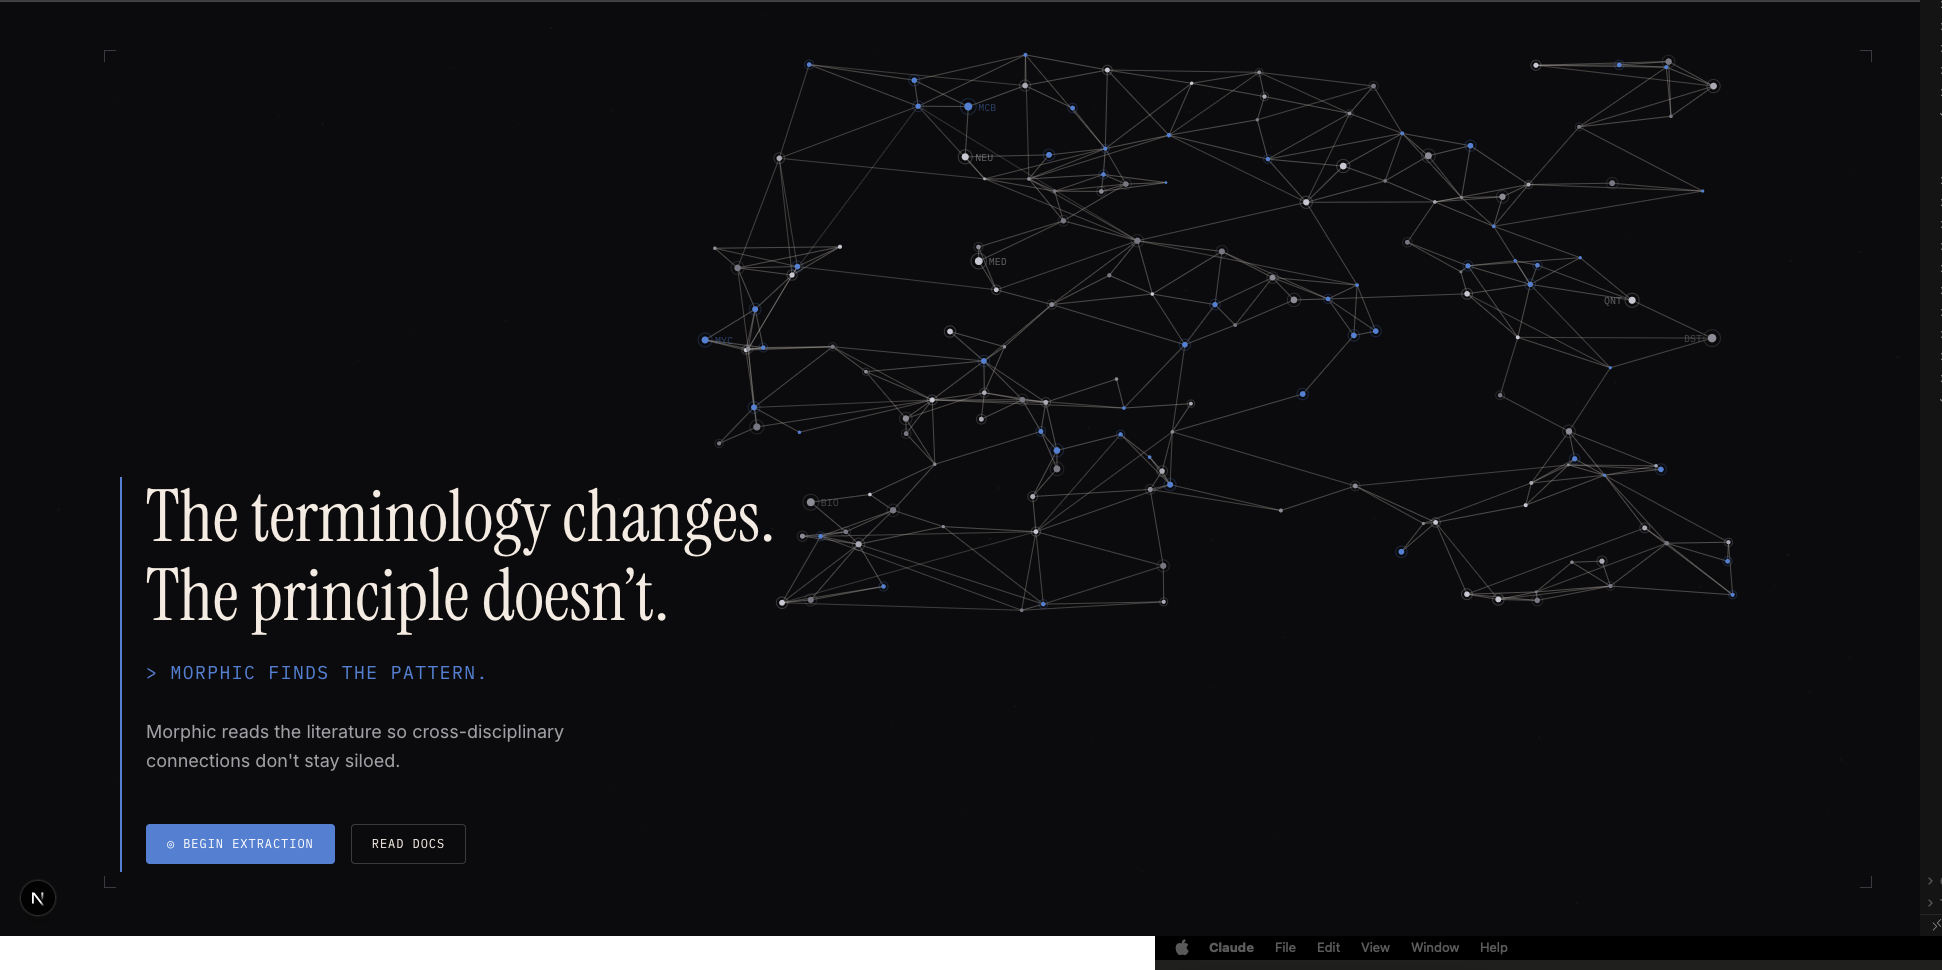
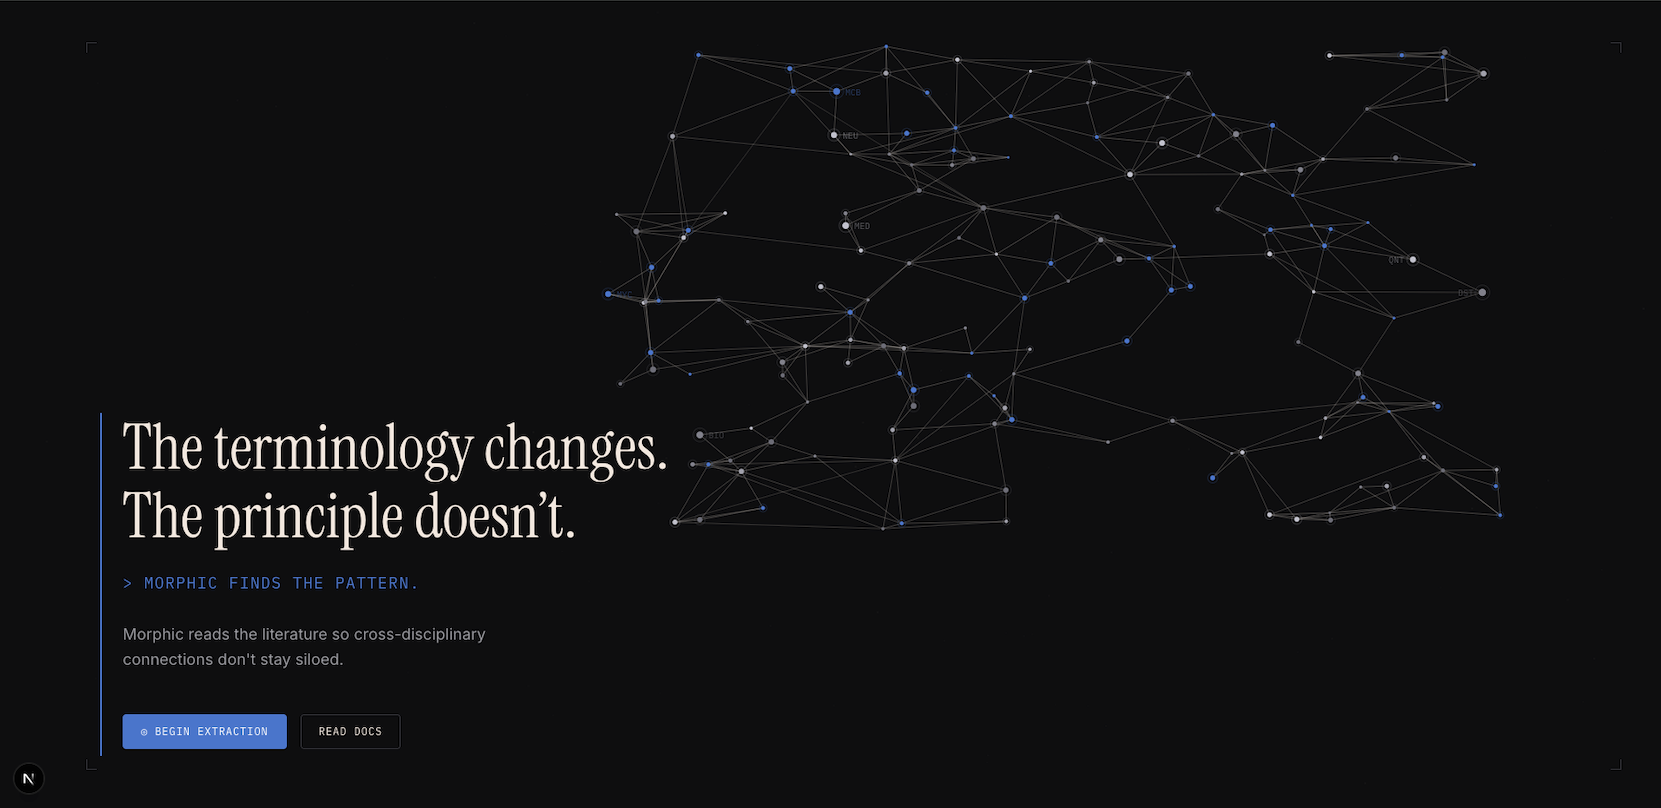
Switch body font to Hanken Grotesk; add image lightbox
Typography:
- Body/nav/lists/tables now Hanken Grotesk (sans) for readability; headings
  stay Young Serif. Hero tagline kept as Cormorant Garamond italic (index only).
- Rename --font-serif-body -> --font-body; update DESIGN.md.

Feature:
- Click-to-zoom lightbox in site.js for content images (charts/screenshots);
  click backdrop or Esc to close. Linked home thumbnails keep navigating.

Also: cache-bust querystrings on CSS/JS links; refreshed morphic thumbnail.

diff --git a/dist/output.css b/dist/output.css
@@ -1,5 +1,5 @@
 
-@import url('https://fonts.googleapis.com/css2?family=Cormorant+Garamond:ital,wght@0,300;0,400;1,300&family=Young+Serif&display=swap');/* src/theme.css *//* CSS Variables for colors and fonts */:root {
+@import url('https://fonts.googleapis.com/css2?family=Hanken+Grotesk:ital,wght@0,400;0,500;0,700;1,400&family=Young+Serif&display=swap');/* src/theme.css *//* CSS Variables for colors and fonts */:root {
   --color-background: var(--color-isabelline);
   --color-text: var(--color-van-dyke);
   --color-link-hover-bg: var(--color-caramel);
@@ -7,7 +7,7 @@
   --color-nav-link: var(--color-van-dyke);
 
   --font-serif-display: 'Young Serif', serif;
-  --font-serif-body: 'Cormorant Garamond', serif;
+  --font-body: 'Hanken Grotesk', system-ui, sans-serif;
 
   --color-van-dyke: #3E1F14;
   --color-caramel: #BE7C4D;
@@ -40,7 +40,7 @@
   font-family: var(--font-serif-display);
   color: var(--color-text);
 }ol, ul, p {
-  font-family: var(--font-serif-body);
+  font-family: var(--font-body);
 }/* NOTE: heading font-SIZES live in src/input.css inside `@layer base`, NOT here.
    Tailwind's Preflight (@tailwind base) resets h1–h3 to `font-size: inherit`, and
    theme.css is @imported BEFORE @tailwind base — so any font-size set here is
@@ -74,7 +74,7 @@
 }/* Ensure nav links use the CSS variable colors.
    font-family is set here because the global `a` was dropped from the
    serif-body selector; nav links aren't inside a serif parent to inherit it. */nav a {
-  font-family: var(--font-serif-body);
+  font-family: var(--font-body);
   color: var(--color-nav-link);
   text-decoration: none;
 }nav a:hover,
@@ -1320,7 +1320,7 @@ video {
   -o-object-position: center;
      object-position: center; /* per-image focal point set inline where needed */
   display: block;
-}/* ---- GitHub contribution heatmap ---- */.heatmap-wrap { overflow-x: auto; padding-bottom: 6px; }.heatmap { display: inline-block; min-width: -moz-max-content; min-width: max-content; font-family: var(--font-serif-body, serif); }.heatmap-months {
+}/* ---- GitHub contribution heatmap ---- */.heatmap-wrap { overflow-x: auto; padding-bottom: 6px; }.heatmap { display: inline-block; min-width: -moz-max-content; min-width: max-content; font-family: var(--font-body, sans-serif); }.heatmap-months {
   position: relative;
   height: 1.1em;
   margin-left: 30px;
@@ -1367,6 +1367,9 @@ video {
   position: relative;
   display: inline-block;
   max-width: 100%;
+  /* Elegant italic serif for the tagline. Body font is now Hanken, so this is set
+     explicitly to keep the original Cormorant look (loaded on index only). */
+  font-family: 'Cormorant Garamond', serif;
 }.hero-handwrite .hw-text {
   display: inline-block;
   -webkit-clip-path: inset(0 100% 0 0);
@@ -1397,12 +1400,37 @@ video {
   border-radius: 0.5rem;
   overflow: hidden;
   background: color-mix(in srgb, var(--color-caramel) 7%, transparent);
-}.figure-frame iframe { width: 100%; height: 460px; border: 0; display: block; }.figure-frame img { width: 100%; display: block; }.chart-placeholder { display: flex; align-items: center; justify-content: center; min-height: 320px; text-align: center; padding: 1rem; }.figcaption { font-size: 0.85rem; opacity: 0.6; margin-top: 0.6rem; }/* ---- Data appendix: sources table + metric terms ---- */.data-table { width: 100%; border-collapse: collapse; font-family: var(--font-serif-body, serif); }.data-table th, .data-table td {
+}.figure-frame iframe { width: 100%; height: 460px; border: 0; display: block; }.figure-frame img { width: 100%; display: block; }.chart-placeholder { display: flex; align-items: center; justify-content: center; min-height: 320px; text-align: center; padding: 1rem; }.figcaption { font-size: 0.85rem; opacity: 0.6; margin-top: 0.6rem; }/* ---- Data appendix: sources table + metric terms ---- */.data-table { width: 100%; border-collapse: collapse; font-family: var(--font-body, sans-serif); }.data-table th, .data-table td {
   text-align: left;
   padding: 0.55rem 0.75rem;
   border-bottom: 1px solid color-mix(in srgb, currentColor 14%, transparent);
   vertical-align: top;
-}.data-table th { font-size: 0.72rem; text-transform: uppercase; letter-spacing: 0.05em; opacity: 0.55; }.data-table td:first-child { font-weight: 600; }.term { font-family: ui-monospace, SFMono-Regular, Menlo, monospace; font-size: 0.92em; color: var(--color-jasper); }.dark .term { color: var(--color-caramel); }.hover\:border-current:hover{
+}.data-table th { font-size: 0.72rem; text-transform: uppercase; letter-spacing: 0.05em; opacity: 0.55; }.data-table td:first-child { font-weight: 600; }.term { font-family: ui-monospace, SFMono-Regular, Menlo, monospace; font-size: 0.92em; color: var(--color-jasper); }.dark .term { color: var(--color-caramel); }/* ---- Click-to-zoom image lightbox (wired up in assets/js/site.js) ---- *//* Only content images (not linked thumbnails) get the zoom cursor. */.zoomable { cursor: zoom-in; }.lightbox {
+  position: fixed;
+  inset: 0;
+  z-index: 70; /* above sidebar (z-50/60), toggle (z-60), mobile bar (z-40) */
+  display: flex;
+  align-items: center;
+  justify-content: center;
+  padding: 2rem;
+  background: color-mix(in srgb, var(--color-van-dyke) 90%, transparent);
+  opacity: 0;
+  pointer-events: none;
+  transition: opacity 0.2s ease;
+  cursor: zoom-out; /* clicking the backdrop closes */
+}.lightbox.open { opacity: 1; pointer-events: auto; }.lightbox img {
+  max-width: 95vw;
+  max-height: 95vh;
+  -o-object-fit: contain;
+     object-fit: contain;
+  border-radius: 0.5rem;
+  box-shadow: 0 12px 48px rgba(0, 0, 0, 0.55);
+  transform: scale(0.97);
+  transition: transform 0.2s ease;
+  cursor: default; /* clicking the image itself does not close */
+}.lightbox.open img { transform: scale(1); }@media (prefers-reduced-motion: reduce) {
+  .lightbox, .lightbox img { transition: none; }
+}.hover\:border-current:hover{
   border-color: currentColor;
 }.hover\:border-gray-300:hover{
   --tw-border-opacity: 1;

diff --git a/src/input.css b/src/input.css
@@ -1,5 +1,5 @@
 @import './theme.css';
-@import url('https://fonts.googleapis.com/css2?family=Cormorant+Garamond:ital,wght@0,300;0,400;1,300&family=Young+Serif&display=swap');
+@import url('https://fonts.googleapis.com/css2?family=Hanken+Grotesk:ital,wght@0,400;0,500;0,700;1,400&family=Young+Serif&display=swap');
 @tailwind base;
 @tailwind components;
 @tailwind utilities;
@@ -81,7 +81,7 @@ html { scroll-behavior: smooth; }
 
 /* ---- GitHub contribution heatmap ---- */
 .heatmap-wrap { overflow-x: auto; padding-bottom: 6px; }
-.heatmap { display: inline-block; min-width: max-content; font-family: var(--font-serif-body, serif); }
+.heatmap { display: inline-block; min-width: max-content; font-family: var(--font-body, sans-serif); }
 .heatmap-months {
   position: relative;
   height: 1.1em;
@@ -188,6 +188,9 @@ main section > h2::after {
   position: relative;
   display: inline-block;
   max-width: 100%;
+  /* Elegant italic serif for the tagline. Body font is now Hanken, so this is set
+     explicitly to keep the original Cormorant look (loaded on index only). */
+  font-family: 'Cormorant Garamond', serif;
 }
 .hero-handwrite .hw-text {
   display: inline-block;
@@ -247,7 +250,7 @@ main section > h2::after {
 .figcaption { font-size: 0.85rem; opacity: 0.6; margin-top: 0.6rem; }
 
 /* ---- Data appendix: sources table + metric terms ---- */
-.data-table { width: 100%; border-collapse: collapse; font-family: var(--font-serif-body, serif); }
+.data-table { width: 100%; border-collapse: collapse; font-family: var(--font-body, sans-serif); }
 .data-table th, .data-table td {
   text-align: left;
   padding: 0.55rem 0.75rem;
@@ -258,3 +261,38 @@ main section > h2::after {
 .data-table td:first-child { font-weight: 600; }
 .term { font-family: ui-monospace, SFMono-Regular, Menlo, monospace; font-size: 0.92em; color: var(--color-jasper); }
 .dark .term { color: var(--color-caramel); }
+
+/* ---- Click-to-zoom image lightbox (wired up in assets/js/site.js) ---- */
+/* Only content images (not linked thumbnails) get the zoom cursor. */
+.zoomable { cursor: zoom-in; }
+
+.lightbox {
+  position: fixed;
+  inset: 0;
+  z-index: 70; /* above sidebar (z-50/60), toggle (z-60), mobile bar (z-40) */
+  display: flex;
+  align-items: center;
+  justify-content: center;
+  padding: 2rem;
+  background: color-mix(in srgb, var(--color-van-dyke) 90%, transparent);
+  opacity: 0;
+  pointer-events: none;
+  transition: opacity 0.2s ease;
+  cursor: zoom-out; /* clicking the backdrop closes */
+}
+.lightbox.open { opacity: 1; pointer-events: auto; }
+.lightbox img {
+  max-width: 95vw;
+  max-height: 95vh;
+  object-fit: contain;
+  border-radius: 0.5rem;
+  box-shadow: 0 12px 48px rgba(0, 0, 0, 0.55);
+  transform: scale(0.97);
+  transition: transform 0.2s ease;
+  cursor: default; /* clicking the image itself does not close */
+}
+.lightbox.open img { transform: scale(1); }
+
+@media (prefers-reduced-motion: reduce) {
+  .lightbox, .lightbox img { transition: none; }
+}

diff --git a/assets/js/site.js b/assets/js/site.js
@@ -48,4 +48,42 @@
       closeDrawer();
     }
   });
+
+  // Click-to-zoom lightbox for content images (charts, screenshots).
+  // Images wrapped in a link (e.g. home-page project thumbnails) are skipped
+  // so they keep navigating instead of zooming.
+  const zoomImgs = Array.from(document.querySelectorAll('main img'))
+    .filter((img) => !img.closest('a'));
+  if (zoomImgs.length) {
+    const lightbox = document.createElement('div');
+    lightbox.className = 'lightbox';
+    lightbox.setAttribute('role', 'dialog');
+    lightbox.setAttribute('aria-modal', 'true');
+    const lightboxImg = document.createElement('img');
+    lightboxImg.alt = '';
+    lightbox.appendChild(lightboxImg);
+    document.body.appendChild(lightbox);
+
+    function openLightbox(src, alt) {
+      lightboxImg.src = src;
+      lightboxImg.alt = alt || '';
+      lightbox.classList.add('open');
+      document.body.style.overflow = 'hidden'; // freeze background scroll
+    }
+    function closeLightbox() {
+      lightbox.classList.remove('open');
+      document.body.style.overflow = '';
+    }
+
+    zoomImgs.forEach((img) => {
+      img.classList.add('zoomable');
+      img.addEventListener('click', () => openLightbox(img.currentSrc || img.src, img.alt));
+    });
+    // Click anywhere on the backdrop closes; clicking the image itself does not.
+    lightbox.addEventListener('click', closeLightbox);
+    lightboxImg.addEventListener('click', (e) => e.stopPropagation());
+    document.addEventListener('keydown', (e) => {
+      if (e.key === 'Escape' && lightbox.classList.contains('open')) closeLightbox();
+    });
+  }
 })();

diff --git a/projects/morphic.html b/projects/morphic.html
@@ -6,10 +6,10 @@
     <meta name="viewport" content="width=device-width, initial-scale=1.0">
     <title>Morphic · Beck Piscopo</title>
     <link href="https://cdnjs.cloudflare.com/ajax/libs/flowbite/1.8.1/flowbite.min.css" rel="stylesheet" />
-    <link href="../dist/output.css?v=20260625b" rel="stylesheet">
+    <link href="../dist/output.css?v=20260625g" rel="stylesheet">
     <link rel="preconnect" href="https://fonts.googleapis.com">
     <link rel="preconnect" href="https://fonts.gstatic.com" crossorigin>
-    <link href="https://fonts.googleapis.com/css2?family=Cormorant+Garamond:ital,wght@0,300;0,400;1,300&family=Young+Serif&display=swap" rel="stylesheet">
+    <link href="https://fonts.googleapis.com/css2?family=Hanken+Grotesk:ital,wght@0,400;0,500;0,700;1,400&family=Young+Serif&display=swap" rel="stylesheet">
 </head>
 
 <!-- DRAFT case study — content drafted from the project README + PROJECT-PRIMER for Beck to rewrite.
@@ -154,7 +154,7 @@
     </main>
   </div>
 
-  <script src="../assets/js/site.js"></script>
+  <script src="../assets/js/site.js?v=20260625g"></script>
   <script src="https://cdnjs.cloudflare.com/ajax/libs/flowbite/1.8.1/flowbite.min.js"></script>
   <script>
     window.va = window.va || function () { (window.vaq = window.vaq || []).push(arguments); };

diff --git a/projects/st-pete.html b/projects/st-pete.html
@@ -6,10 +6,10 @@
     <meta name="viewport" content="width=device-width, initial-scale=1.0">
     <title>St. Pete Housing Analytics · Beck Piscopo</title>
     <link href="https://cdnjs.cloudflare.com/ajax/libs/flowbite/1.8.1/flowbite.min.css" rel="stylesheet" />
-    <link href="../dist/output.css?v=20260625c" rel="stylesheet">
+    <link href="../dist/output.css?v=20260625g" rel="stylesheet">
     <link rel="preconnect" href="https://fonts.googleapis.com">
     <link rel="preconnect" href="https://fonts.gstatic.com" crossorigin>
-    <link href="https://fonts.googleapis.com/css2?family=Cormorant+Garamond:ital,wght@0,300;0,400;1,300&family=Young+Serif&display=swap" rel="stylesheet">
+    <link href="https://fonts.googleapis.com/css2?family=Hanken+Grotesk:ital,wght@0,400;0,500;0,700;1,400&family=Young+Serif&display=swap" rel="stylesheet">
 </head>
 
 <!-- Analysis case study (ANALYTICS layout — chart-forward data story).
@@ -231,7 +231,7 @@
     </main>
   </div>
 
-  <script src="../assets/js/site.js"></script>
+  <script src="../assets/js/site.js?v=20260625g"></script>
   <script src="https://cdnjs.cloudflare.com/ajax/libs/flowbite/1.8.1/flowbite.min.js"></script>
   <script>
     window.va = window.va || function () { (window.vaq = window.vaq || []).push(arguments); };

diff --git a/projects/noeron.html b/projects/noeron.html
@@ -6,10 +6,10 @@
     <meta name="viewport" content="width=device-width, initial-scale=1.0">
     <title>Noeron · Beck Piscopo</title>
     <link href="https://cdnjs.cloudflare.com/ajax/libs/flowbite/1.8.1/flowbite.min.css" rel="stylesheet" />
-    <link href="../dist/output.css?v=20260625b" rel="stylesheet">
+    <link href="../dist/output.css?v=20260625g" rel="stylesheet">
     <link rel="preconnect" href="https://fonts.googleapis.com">
     <link rel="preconnect" href="https://fonts.gstatic.com" crossorigin>
-    <link href="https://fonts.googleapis.com/css2?family=Cormorant+Garamond:ital,wght@0,300;0,400;1,300&family=Young+Serif&display=swap" rel="stylesheet">
+    <link href="https://fonts.googleapis.com/css2?family=Hanken+Grotesk:ital,wght@0,400;0,500;0,700;1,400&family=Young+Serif&display=swap" rel="stylesheet">
 </head>
 
 <!-- DRAFT case study — content drafted from the project README for Beck to rewrite.
@@ -152,7 +152,7 @@
     </main>
   </div>
 
-  <script src="../assets/js/site.js"></script>
+  <script src="../assets/js/site.js?v=20260625g"></script>
   <script src="https://cdnjs.cloudflare.com/ajax/libs/flowbite/1.8.1/flowbite.min.js"></script>
   <script>
     window.va = window.va || function () { (window.vaq = window.vaq || []).push(arguments); };

diff --git a/index.html b/index.html
@@ -5,10 +5,10 @@
     <meta charset="UTF-8">
     <meta name="viewport" content="width=device-width, initial-scale=1.0">
     <link href="https://cdnjs.cloudflare.com/ajax/libs/flowbite/1.8.1/flowbite.min.css" rel="stylesheet" />
-    <link href="dist/output.css?v=20260625b" rel="stylesheet">
+    <link href="dist/output.css?v=20260625g" rel="stylesheet">
     <link rel="preconnect" href="https://fonts.googleapis.com">
     <link rel="preconnect" href="https://fonts.gstatic.com" crossorigin>
-    <link href="https://fonts.googleapis.com/css2?family=Cormorant+Garamond:ital,wght@0,300;0,400;1,300&family=Young+Serif&display=swap" rel="stylesheet">
+    <link href="https://fonts.googleapis.com/css2?family=Cormorant+Garamond:ital,wght@1,400;1,500&family=Hanken+Grotesk:ital,wght@0,400;0,500;0,700;1,400&family=Young+Serif&display=swap" rel="stylesheet">
 </head>
 
 <body class="min-h-screen">
@@ -188,7 +188,7 @@
     </main>
   </div>
 
-    <script src="assets/js/site.js"></script>
+    <script src="assets/js/site.js?v=20260625g"></script>
     <script>
   const root = document.documentElement;
 

diff --git a/resume.html b/resume.html
@@ -4,10 +4,10 @@
         <meta charset="UTF-8">
         <meta name="viewport" content="width=device-width, initial-scale=1.0">
         <link href="https://cdnjs.cloudflare.com/ajax/libs/flowbite/1.8.1/flowbite.min.css" rel="stylesheet" />
-        <link href="dist/output.css?v=20260625b" rel="stylesheet">
+        <link href="dist/output.css?v=20260625g" rel="stylesheet">
         <link rel="preconnect" href="https://fonts.googleapis.com">
     <link rel="preconnect" href="https://fonts.gstatic.com" crossorigin>
-    <link href="https://fonts.googleapis.com/css2?family=Cormorant+Garamond:ital,wght@0,300;0,400;1,300&family=Young+Serif&display=swap" rel="stylesheet">
+    <link href="https://fonts.googleapis.com/css2?family=Hanken+Grotesk:ital,wght@0,400;0,500;0,700;1,400&family=Young+Serif&display=swap" rel="stylesheet">
     
     </head>
 

diff --git a/src/theme.css b/src/theme.css
@@ -9,7 +9,7 @@
   --color-nav-link: var(--color-van-dyke);
 
   --font-serif-display: 'Young Serif', serif;
-  --font-serif-body: 'Cormorant Garamond', serif;
+  --font-body: 'Hanken Grotesk', system-ui, sans-serif;
 
   --color-van-dyke: #3E1F14;
   --color-caramel: #BE7C4D;
@@ -50,7 +50,7 @@ h1, h2, h3 {
 }
 
 ol, ul, p {
-  font-family: var(--font-serif-body);
+  font-family: var(--font-body);
 }
 
 /* NOTE: heading font-SIZES live in src/input.css inside `@layer base`, NOT here.
@@ -114,7 +114,7 @@ body {
    font-family is set here because the global `a` was dropped from the
    serif-body selector; nav links aren't inside a serif parent to inherit it. */
 nav a {
-  font-family: var(--font-serif-body);
+  font-family: var(--font-body);
   color: var(--color-nav-link);
   text-decoration: none;
 }
